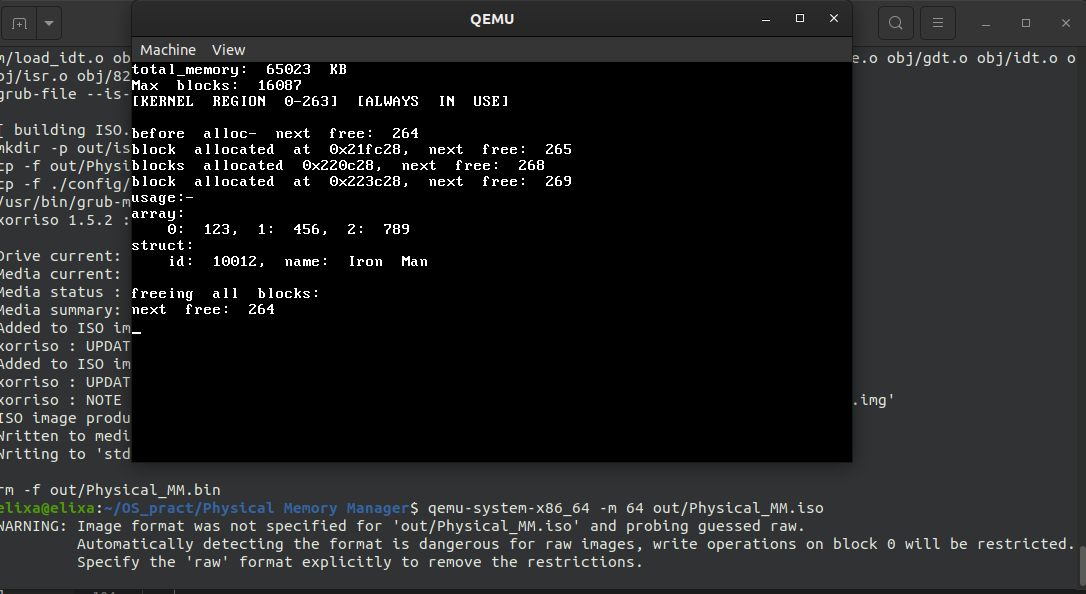
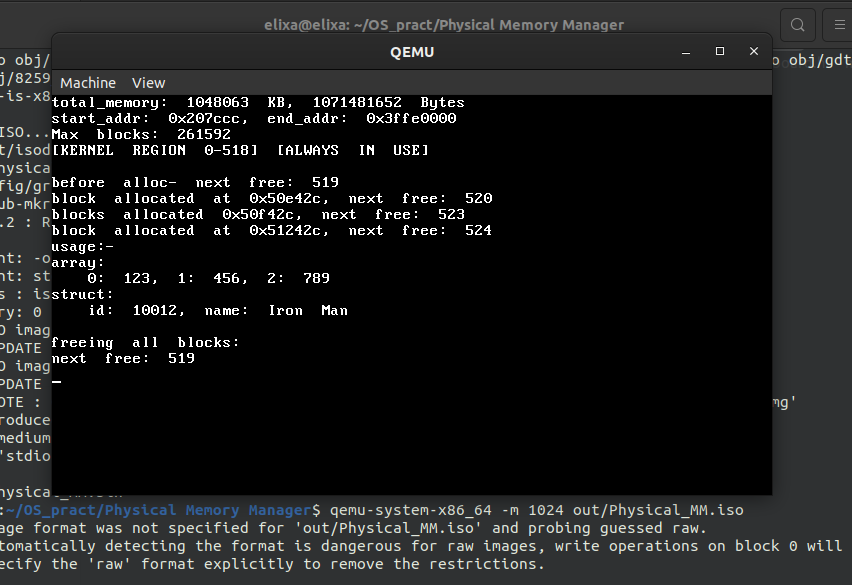
expanded kernel region space by leaving atleat 1MB memory in available portion

diff --git a/NEW KERNEL/Physical Memory Manager/src/kernel.c b/NEW KERNEL/Physical Memory Manager/src/kernel.c
@@ -40,8 +40,8 @@ int get_kernel_memory_map(KERNEL_MEMORY_MAP *kmap, MULTIBOOT_INFO *mboot_info) {
         if (mmap->type != MULTIBOOT_MEMORY_AVAILABLE) continue;
         // make sure kernel is loaded at 0x100000 by bootloader(see linker.ld)
         if (mmap->addr_low == kmap->kernel.text_start_addr) {
-            // set available memory starting from end of our kernel, leaving 1024 bytes
-            kmap->available.start_addr = kmap->kernel.k_end_addr + 1024;
+            // set available memory starting from end of our kernel, leaving 1MB size for functions exceution
+            kmap->available.start_addr = kmap->kernel.k_end_addr + 1024 * 1024;
             kmap->available.end_addr = mmap->addr_low + mmap->len_low;
             // get availabel memory in bytes
             kmap->available.size = kmap->available.end_addr - kmap->available.start_addr;
@@ -87,7 +87,8 @@ void kmain(unsigned long magic, unsigned long addr) {
             return;
         }
         //display_kernel_memory_map(&g_kmap);
-        printf("total_memory: %d KB\n", g_kmap.system.total_memory);
+        printf("total_memory: %d KB, %d Bytes\n", g_kmap.system.total_memory, g_kmap.available.size);
+        printf("start_addr: 0x%x, end_addr: 0x%x\n", g_kmap.available.start_addr, g_kmap.available.end_addr);
 
         // put the memory bitmap at the start of the available memory
         pmm_init(g_kmap.available.start_addr, g_kmap.available.size);

diff --git a/NEW KERNEL/Physical Memory Manager/include/pmm.h b/NEW KERNEL/Physical Memory Manager/include/pmm.h
@@ -6,25 +6,10 @@
 typedef uint32 PMM_PHYSICAL_ADDRESS;
 
 /*
-NOTE: Bitmap memory allocator works only on small memory size
-      If want to make it work for large memory, make sure to increse BLOCK size(2^n)
-      Here i'm using only one memory manager using bitmap allocation which is extremely slow.
-      we will add other types such as Linked allocation or Buddy system...
-      
-      Make sure you pass memory to qemu using -m option
+ Make sure you pass memory to qemu using -m option
 */
 
-// 4K works for memory <= 64MB
 #define PMM_BLOCK_SIZE    4096
-
-// 8K works for memory <= 128MB, default memory used for qemu
-//#define PMM_BLOCK_SIZE    8192
-
-// 16K works for memory <= 256MB
-//#define PMM_BLOCK_SIZE    16384
-
-// 1MB works for memory >= 512MB, but it's better to use buddy system here
-//#define PMM_BLOCK_SIZE    1048576
 
 
 typedef struct {

diff --git a/NEW KERNEL/Physical Memory Manager/README.md b/NEW KERNEL/Physical Memory Manager/README.md
@@ -1,9 +1,6 @@
-NOTE: Bitmap memory allocator works only on small memory size
-      If want to make it work for large memory, make sure to increse BLOCK size(2^n)
-      Here i'm using only one memory manager using bitmap allocation which is extremely slow.
-      we will add other types such as Linked allocation or Buddy system...
-      
-      Make sure you pass memory to qemu using -m option
+Make sure you pass memory to qemu using -m option
+At least minimum 4 MB memory is required
+
 
 ## Usage :-<br/>
 
